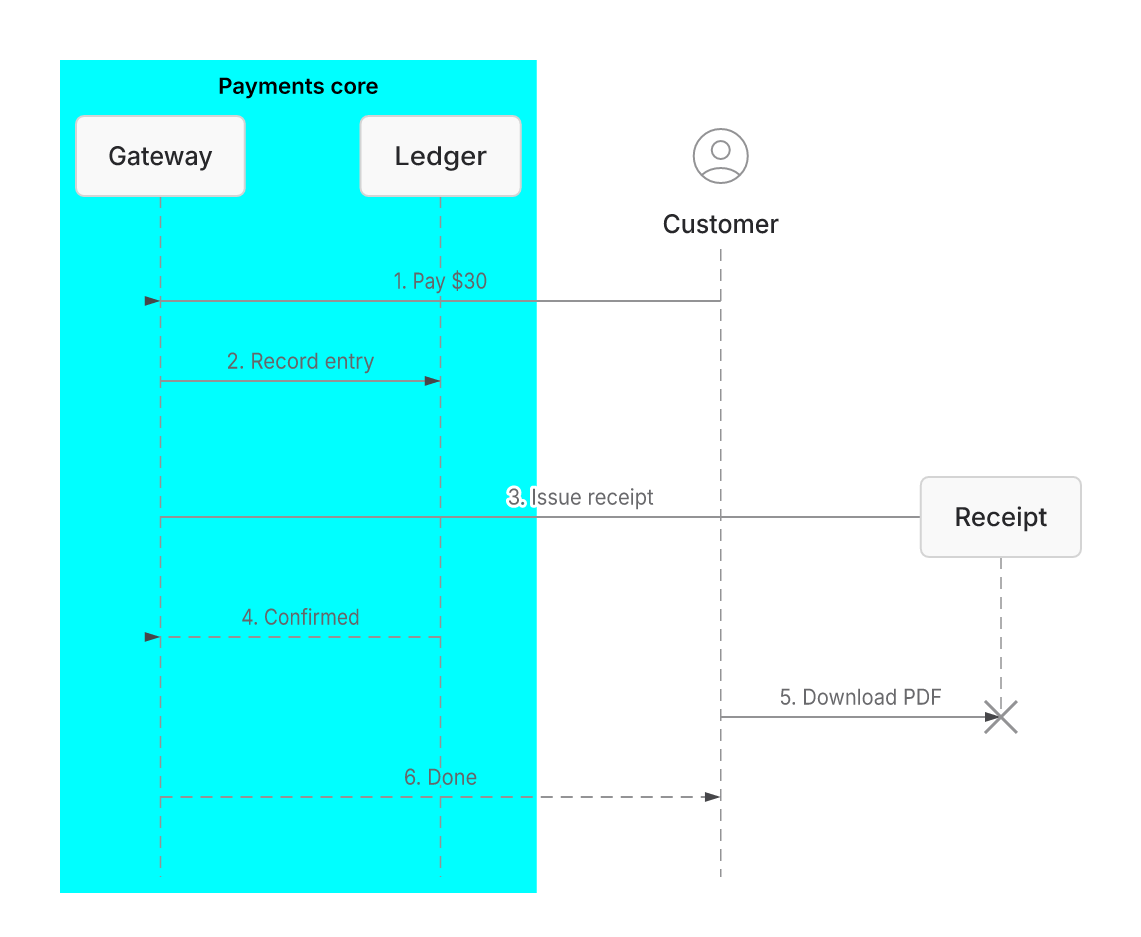
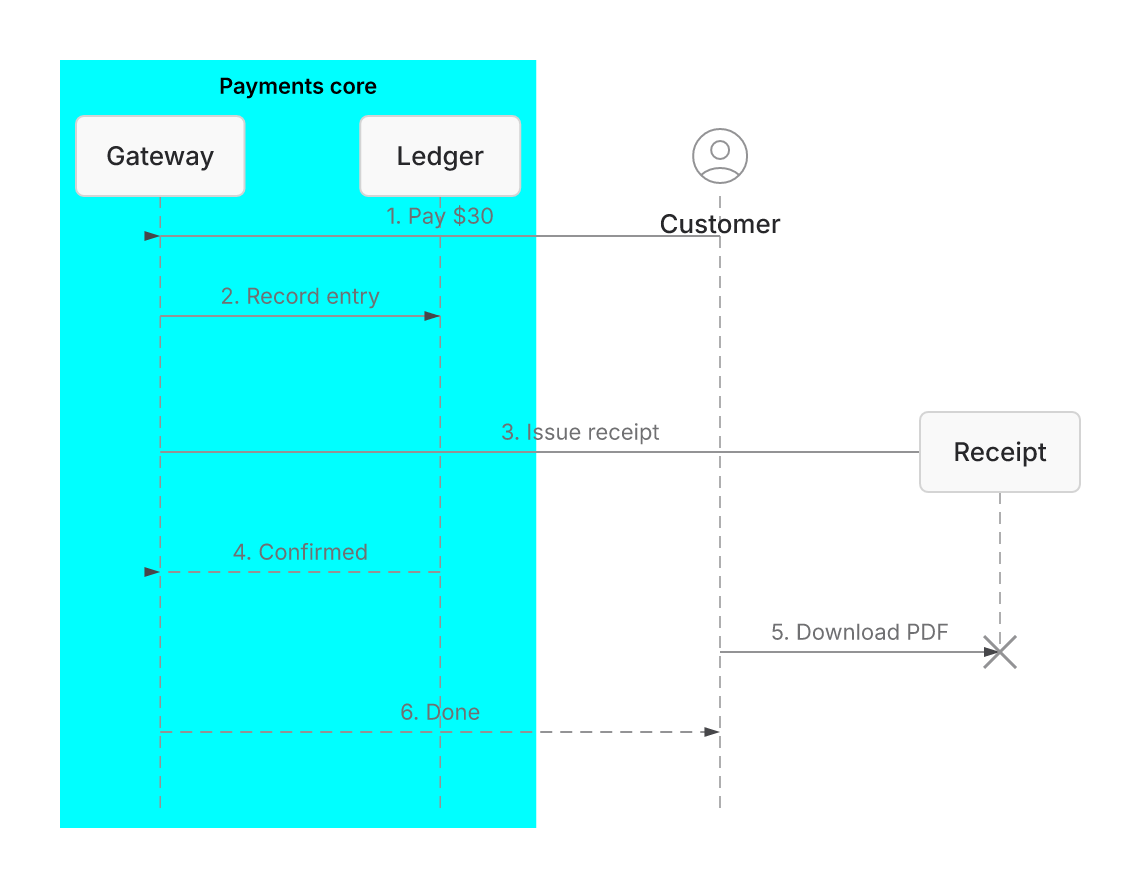
test(sequence): refresh the reviewed rendering golden

diff --git a/scripts/pr-assets/section-b-brand-evidence.ts b/scripts/pr-assets/section-b-brand-evidence.ts
@@ -2,7 +2,7 @@
 import { spawnSync } from 'node:child_process'
 import { existsSync, mkdirSync, mkdtempSync, readFileSync, rmSync, symlinkSync, writeFileSync } from 'node:fs'
 import { tmpdir } from 'node:os'
-import { join } from 'node:path'
+import { dirname, join } from 'node:path'
 import { Resvg } from '@resvg/resvg-js'
 import { getFamily, knownBuiltinFamilies } from '../../src/agent/families.ts'
 import { renderMermaidPNG } from '../../src/agent/png.ts'
@@ -11,7 +11,7 @@ import { renderMermaidSVG, validateStyleSpec, type StyleSpec } from '../../src/i
 import { repositoryPath, sha256File } from './artifact-receipt.ts'
 
 const ROOT = join(import.meta.dir, '..', '..')
-export const OUTPUT = join(ROOT, 'docs', 'design', 'families', 'section-b-brand-evidence.png')
+export const OUTPUT = join(ROOT, 'src', '__tests__', 'testdata', 'section-b-brand-evidence.png')
 export const VISUAL_APPROVAL = join(ROOT, 'eval', 'section-b-brand-evidence', 'visual-approval.json')
 export const SECTION_B_BASELINE_COMMIT = 'e60be1e68b5aa51fac205c7cf9e481ea3b27ffc8'
 const README = join(ROOT, 'eval', 'section-b-brand-evidence', 'README.md')
@@ -252,15 +252,15 @@ export function verifySectionBCausalBaseline(): { commit: string; exitCode: numb
   }
 }
 
-/** The human approval must name the exact bytes of the committed sheet. */
+/** The recorded visual review must name the exact bytes of the committed golden. */
 export function sectionBVisualApproval(): ReturnType<typeof verifiedVisualApproval> {
   return verifiedVisualApproval(sha256File(OUTPUT))
 }
 
 if (import.meta.main) {
-  mkdirSync(join(ROOT, 'docs', 'design', 'families'), { recursive: true })
+  mkdirSync(dirname(OUTPUT), { recursive: true })
   mkdirSync(join(ROOT, 'eval', 'section-b-brand-evidence'), { recursive: true })
   writeFileSync(OUTPUT, buildSectionBBrandEvidence())
-  writeFileSync(README, `# Section B visual evidence\n\nThe pinned pre-Section-B commit \`${SECTION_B_BASELINE_COMMIT}\` rejects the public \`roles\` field, so no plausible before image exists. \`baseline.mmd\` and \`role-style.json\` are the exact committed inputs. Reproduce it manually by checking out that commit in a worktree and running \`bun run bin/am.ts render baseline.mmd --format svg --style role-style.json\`; the expected result is exit 2 plus the \`unknown field "roles"\` diagnostic. Routine shallow-history checks verify the frozen inputs and current evidence rather than executing an old checkout.\n\nThe generated after sheet renders every registered family through one deliberately distinctive sentinel and three holdout inline StyleSpec records. Every cell uses the public native PNG API; the unit test also renders the sentinel across all registered families through default, rough, and hybrid SVG+PNG probes. Inspect typography, padding/radius/line-weight changes, cross-family palette coherence, and the Pie card: \`Pro\` remains the family-authored highlighted slice while the sentinel category binding changes its paint without changing wedge geometry. The manual native-size review and deployed-website comparison are recorded by \`visual-approval.json\` and \`production-comparison.md\`. The separate Cupertino-, Vercel-, and Cloudflare Workers-inspired public-record evidence is catalogued in \`examples/styles/catalog.json\` and pinned by \`eval/style-prototype-evidence/visual-approval.json\`.\n\nApproval is intentionally separate from generation: run \`bun run gallery:section-b\` to create a candidate, inspect all 60 cells at native size, and update \`visual-approval.json\` with the candidate SHA-256 and audit path. \`src/__tests__/section-b-visual-evidence.test.ts\` regenerates the sheet in memory, byte-compares it with the committed PNG, and checks that the approval names those exact bytes.\n`)
+  writeFileSync(README, `# Section B visual evidence\n\nThe pinned pre-Section-B commit \`${SECTION_B_BASELINE_COMMIT}\` rejects the public \`roles\` field, so no plausible before image exists. \`baseline.mmd\` and \`role-style.json\` are the exact committed inputs. Reproduce it manually by checking out that commit in a worktree and running \`bun run bin/am.ts render baseline.mmd --format svg --style role-style.json\`; the expected result is exit 2 plus the \`unknown field "roles"\` diagnostic. Routine shallow-history checks verify the frozen inputs and current evidence rather than executing an old checkout.\n\nThe generated after sheet renders every registered family through one deliberately distinctive sentinel and three holdout inline StyleSpec records. Every cell uses the public native PNG API; the unit test also renders the sentinel across all registered families through default, rough, and hybrid SVG+PNG probes. Inspect typography, padding/radius/line-weight changes, cross-family palette coherence, and the Pie card: \`Pro\` remains the family-authored highlighted slice while the sentinel category binding changes its paint without changing wedge geometry. The native-size visual review and deployed-website comparison are recorded by \`visual-approval.json\` and \`production-comparison.md\`. The separate Cupertino-, Vercel-, and Cloudflare Workers-inspired public-record evidence is catalogued in \`examples/styles/catalog.json\` and pinned by \`eval/style-prototype-evidence/visual-approval.json\`.\n\nThe reviewed rendering golden is \`src/__tests__/testdata/section-b-brand-evidence.png\`, under the repository reviewed-golden exception. Approval is intentionally separate from generation: run \`bun run gallery:section-b\` to create a candidate, inspect all registered family-by-variant cells at native size, and update \`visual-approval.json\` with the candidate SHA-256 and audit path. \`src/__tests__/section-b-visual-evidence.test.ts\` regenerates the sheet in memory, byte-compares it with the committed PNG, and checks that the approval names those exact bytes.\n`)
   process.stdout.write(`wrote ${OUTPUT}\n`)
 }

diff --git a/src/__tests__/section-b-visual-evidence.test.ts b/src/__tests__/section-b-visual-evidence.test.ts
@@ -6,7 +6,7 @@ import { buildSectionBBrandEvidence, GRAPHICAL_BACKEND_PROBES, runSectionBBacken
 import { knownBuiltinFamilies } from '../agent/families.ts'
 
 const ROOT = join(import.meta.dir, '..', '..')
-const PNG = join(ROOT, 'docs/design/families/section-b-brand-evidence.png')
+const PNG = join(import.meta.dir, 'testdata', 'section-b-brand-evidence.png')
 const APPROVAL = join(ROOT, 'eval/section-b-brand-evidence/visual-approval.json')
 
 function pngDimensions(bytes: Uint8Array): { width: number; height: number } {
@@ -15,7 +15,7 @@ function pngDimensions(bytes: Uint8Array): { width: number; height: number } {
   return { width: view.getUint32(16), height: view.getUint32(20) }
 }
 
-describe('Section B generated visual evidence', () => {
+describe('Section B reviewed rendering golden', () => {
   test('positions every variant heading inside its own section band', () => {
     const sectionHeight = 86 + 5 * 380
     for (let index = 0; index < 4; index++) {
@@ -34,7 +34,7 @@ describe('Section B generated visual evidence', () => {
     expect(checked.byteLength).toBeGreaterThan(500_000)
   }, 120_000)
 
-  test('the human approval names the exact committed bytes and the frozen baseline inputs exist', () => {
+  test('the recorded visual review names the exact committed bytes and the frozen baseline inputs exist', () => {
     const approval = JSON.parse(readFileSync(APPROVAL, 'utf8'))
     expect(sectionBVisualApproval()).toEqual({
       path: 'eval/section-b-brand-evidence/visual-approval.json',

diff --git a/eval/section-b-brand-evidence/README.md b/eval/section-b-brand-evidence/README.md
@@ -2,6 +2,6 @@
 
 The pinned pre-Section-B commit `e60be1e68b5aa51fac205c7cf9e481ea3b27ffc8` rejects the public `roles` field, so no plausible before image exists. `baseline.mmd` and `role-style.json` are the exact committed inputs. Reproduce it manually by checking out that commit in a worktree and running `bun run bin/am.ts render baseline.mmd --format svg --style role-style.json`; the expected result is exit 2 plus the `unknown field "roles"` diagnostic. Routine shallow-history checks verify the frozen inputs and current evidence rather than executing an old checkout.
 
-The generated after sheet renders every registered family through one deliberately distinctive sentinel and three holdout inline StyleSpec records. Every cell uses the public native PNG API; the unit test also renders the sentinel across all registered families through default, rough, and hybrid SVG+PNG probes. Inspect typography, padding/radius/line-weight changes, cross-family palette coherence, and the Pie card: `Pro` remains the family-authored highlighted slice while the sentinel category binding changes its paint without changing wedge geometry. The manual native-size review and deployed-website comparison are recorded by `visual-approval.json` and `production-comparison.md`. The separate Cupertino-, Vercel-, and Cloudflare Workers-inspired public-record evidence is catalogued in `examples/styles/catalog.json` and pinned by `eval/style-prototype-evidence/visual-approval.json`.
+The generated after sheet renders every registered family through one deliberately distinctive sentinel and three holdout inline StyleSpec records. Every cell uses the public native PNG API; the unit test also renders the sentinel across all registered families through default, rough, and hybrid SVG+PNG probes. Inspect typography, padding/radius/line-weight changes, cross-family palette coherence, and the Pie card: `Pro` remains the family-authored highlighted slice while the sentinel category binding changes its paint without changing wedge geometry. The native-size visual review and deployed-website comparison are recorded by `visual-approval.json` and `production-comparison.md`. The separate Cupertino-, Vercel-, and Cloudflare Workers-inspired public-record evidence is catalogued in `examples/styles/catalog.json` and pinned by `eval/style-prototype-evidence/visual-approval.json`.
 
-Approval is intentionally separate from generation: run `bun run gallery:section-b` to create a candidate, inspect all 60 cells at native size, and update `visual-approval.json` with the candidate SHA-256 and audit path. `src/__tests__/section-b-visual-evidence.test.ts` regenerates the sheet in memory, byte-compares it with the committed PNG, and checks that the approval names those exact bytes.
+The reviewed rendering golden is `src/__tests__/testdata/section-b-brand-evidence.png`, under the repository reviewed-golden exception. Approval is intentionally separate from generation: run `bun run gallery:section-b` to create a candidate, inspect all registered family-by-variant cells at native size, and update `visual-approval.json` with the candidate SHA-256 and audit path. `src/__tests__/section-b-visual-evidence.test.ts` regenerates the sheet in memory, byte-compares it with the committed PNG, and checks that the approval names those exact bytes.

diff --git a/eval/section-b-brand-evidence/production-comparison.md b/eval/section-b-brand-evidence/production-comparison.md
@@ -1,8 +1,43 @@
 # Visual review and production comparison
 
+## PR #390 reviewed-golden refresh — 2026-10-16
+
+The current [reviewed rendering golden](../../src/__tests__/testdata/section-b-brand-evidence.png)
+is 1560×9464 and contains 64 family-by-variant cells. It lives under
+`src/__tests__/testdata/`, the repository's explicit exception for reviewed
+rendering goldens. The gallery generator and unit test use this single copy;
+PR before/after evidence remains a generated review artifact.
+
+The previous committed PNG byte-matches a fresh production render at immutable
+main `9925294bdf9501662b754c1260acb1c1b6819cdc` with Bun 1.4.2. The candidate was
+generated at `e43f37e3ec50d0697c9f26807f53e33f49dd5b81` with the same inputs and
+bundled fonts. A per-pixel comparison found 17,623 changed pixels out of
+14,763,840, entirely within the four Sequence cells:
+
+| Treatment | Changed pixels |
+|---|---:|
+| Sentinel | 5,188 |
+| Editorial | 4,981 |
+| Technical | 6,976 |
+| Operations | 478 |
+
+The other 60 cells are pixel-identical. Codex agents inspected the four Sequence
+before/after crops at native size. Request/response text and arrow direction
+remain complete, typography and palettes retain each treatment, and all content
+fits its panel. Small changes in actor dimensions, label clearance, and lifeline
+positions follow the updated sequence geometry. This records an agent visual
+review, not human approval.
+
+This simple two-participant sheet is a rendering baseline, not a reproduction
+of the closed-fragment or intervening-lifeline defects. PR #390's dedicated SVG
+and raster regressions provide that behavioral evidence; accepting this golden
+alone does not establish that the renderer is correct.
+
+## Historical Section B reviews
+
 Originally reviewed 2026-07-15 and re-reviewed for the current branch on
-2026-07-22 at native resolution. The Section B sheet is
-`docs/design/families/section-b-brand-evidence.png` (1560×7944, 60 cells). The
+2026-07-22 at native resolution. The Section B sheet at that time was
+1560×7944 with 60 cells. The
 website comparison captured every visible diagram SVG on the branch homepage
 at `http://127.0.0.1:9095/` and its deployed equivalent at
 `https://agentic-mermaid.dev/` in the same Chromium build and viewport.

diff --git a/docs/style-authoring.md b/docs/style-authoring.md
@@ -130,8 +130,8 @@ BrandPack registry is deliberately **not promoted**. Render-time semver ranges,
 dependency solving, ambient resource loading, and a second inheritance system
 remain absent.
 
-The [all-family evidence sheet](./design/families/section-b-brand-evidence.png)
-shows one deliberately distinctive sentinel plus three holdout styles; its receipt
+The [reviewed all-family rendering golden](../src/__tests__/testdata/section-b-brand-evidence.png)
+shows one deliberately distinctive sentinel plus three holdout styles; its review record
 and honest hard-error baseline live in `eval/section-b-brand-evidence/`.
 
 Every field is optional in a reusable fragment, but the resolved final stack
